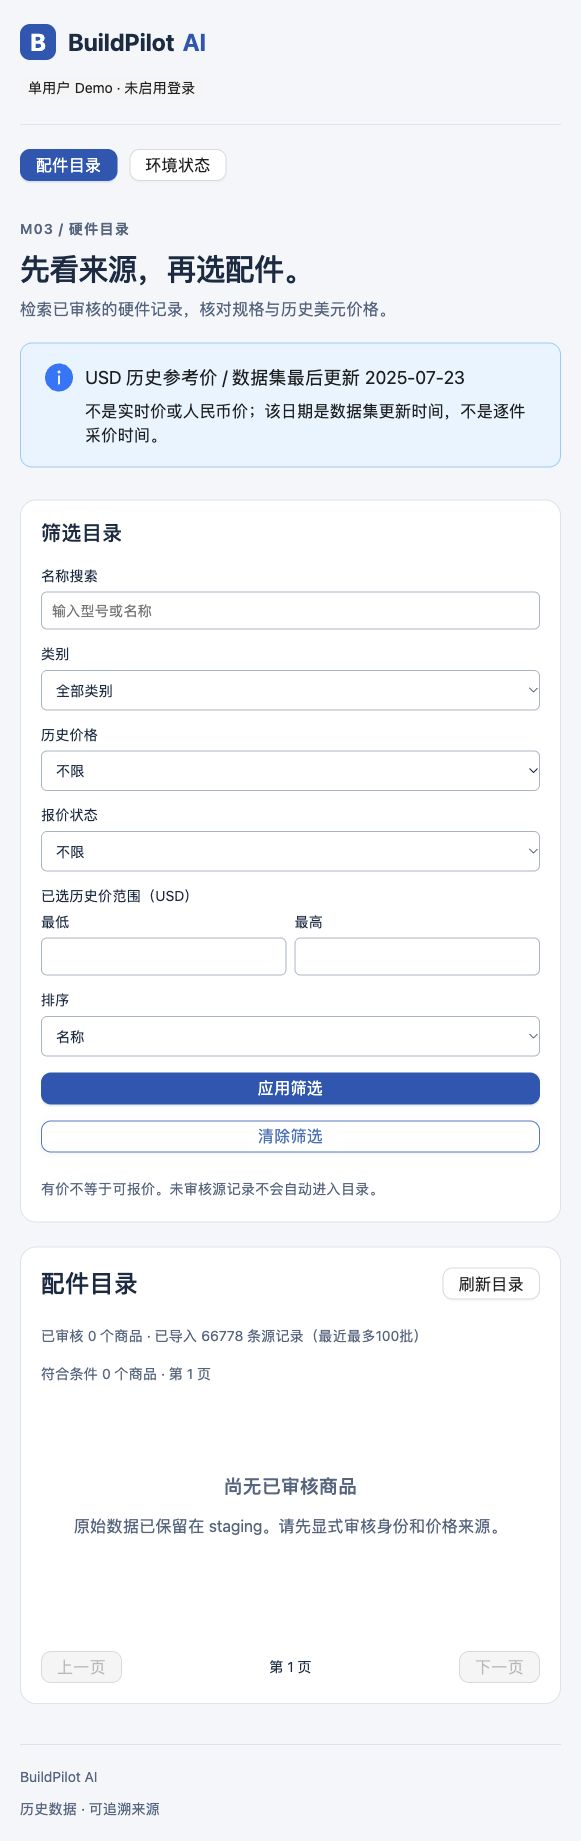
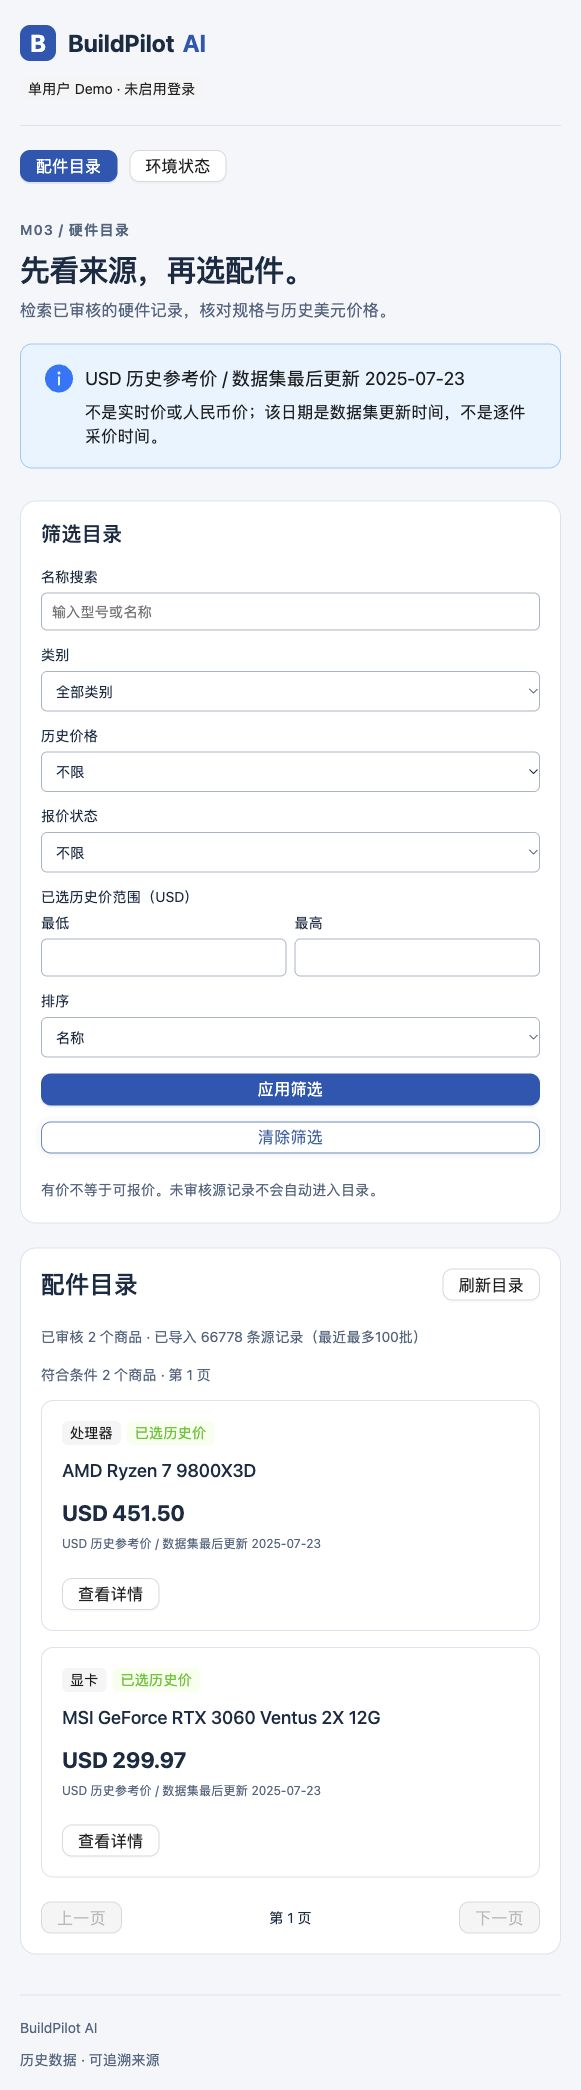
docs(m03): record approved real catalog acceptance

diff --git a/BUILD_PILOT_AI_MASTER_PLAN.md b/BUILD_PILOT_AI_MASTER_PLAN.md
@@ -1,6 +1,6 @@
 # BuildPilot AI — 完整项目实施手册（M03 修订版）
 
-2026-10-14：M00–M02 已验收；M03 代码已实现，真实样例验收待审核；后续为设计稿。
+2026-10-14：M00–M03 已验收；后续为设计稿。
 
 
 ---
@@ -11,7 +11,7 @@
 
 > 实施前必须同时阅读 [docs/11_PLAN_REVISION.md](docs/11_PLAN_REVISION.md)。该文件定义本次修订的业务规则、验收与执行顺序；冲突处以修订条款为准。M00–M02 已实现；验收结果见 docs/verification/。
 
-> **当前已实现 M00 工程基座、M01 文件清洗和 M02 数据库迁移/入库。** M03 配件 API/查询界面已实现，真实样例目录审核待确认；装机功能尚未实现。按修订后的阶段顺序逐关验收。
+> **当前已实现 M00 工程基座、M01 文件清洗和 M02 数据库迁移/入库。** M03 配件 API/查询界面已实现，真实 CPU/GPU 样例已批准并通过验收；装机功能尚未实现。按修订后的阶段顺序逐关验收。
 
 ## 本地运行（M00）
 
@@ -140,7 +140,7 @@ UV_CACHE_DIR=/tmp/buildpilot-uv-cache uv run --locked python -m app.etl.import_d
 
 同名不同规格不能合到同一个 UUID；新数据版本不按名字自动延续身份。只对同一输入中的相同源记录键复用此前的审核映射；跨输入版本需新的显式映射。当前仅本地 CLI 操作，不宣称已实现登录管理员权限或签名审核。
 
-实际数据目前 **0 个已审核规范商品**，全部先入 staging；这不是导入失败。M03 展示规范目录前需要审核少量可靠样例。合成 fixtures 已验证缺价商品存在但不可报价、冲突价经显式选择后可溯源，以及旧报价金额不被后续选价修改。
+M02 初次导入时规范目录为0；M03 经用户明确批准后，当前有 **2 个已审核规范商品**（CPU/GPU各1个），其余保留 staging。合成 fixtures 已验证缺价商品存在但不可报价、冲突价经显式选择后可溯源，以及旧报价金额不被后续选价修改。
 
 [数据库 ER 与实现说明](docs/03_DATABASE.md) · [M02 验收记录](docs/verification/M02.md) · [M02 学习笔记](docs/learning-notes/M02.md)
 
@@ -158,9 +158,9 @@ make check-db
 
 接口前缀 /api/v1；交互式契约见 http://127.0.0.1:8000/docs。价格 JSON 为字符串或 null。所有历史金额旁显示 USD 及数据集最后更新日期，缺价不填零。有价与可报价分别筛选；价格范围只使用显式选价。
 
-**真实目录当前仍为空**：源记录已入 staging，两条 CPU/GPU 演示样例尚待审核。应用不会自动合并或伪造审核。空目录会解释原因；确认本地审核文件后用 M02 CLI 应用即可显示，无需改代码。原始数据、审核文件和清洗输出不提交 GitHub。
+**真实目录当前有2个已审核演示商品**：用户已批准 AMD Ryzen 7 9800X3D（USD 451.50）和 MSI GeForce RTX 3060 Ventus 2X 12G（USD 299.97）的独立身份及源价，已应用并验证重跑幂等。其余源记录仍待审；新环境未应用本地审核文件时会显示空目录及原因。原始数据、审核文件和清洗输出不提交 GitHub。
 
-已实现接口/UI 与测试通过，M03 全部验收仍待真实样例批准和浏览器详情核对。没有实现登录、装机 CRUD 或 AI。
+接口/UI、自动测试和真实 CPU/GPU 搜索/详情验收通过。没有实现登录、装机 CRUD 或 AI。
 
 [M03 验收与限制](docs/verification/M03.md) · [M03 学习笔记](docs/learning-notes/M03.md) · [当前 API 契约](docs/04_API.md)
 
@@ -221,7 +221,7 @@ make check-db
 
 # Codex 工作规范（必须遵守）
 
-> 实施前必须同时阅读 [docs/11_PLAN_REVISION.md](docs/11_PLAN_REVISION.md)。该文件定义本次修订的业务规则、验收与执行顺序；冲突处以修订条款为准。M00–M02 已验收；M03 接口/UI 已实现，真实样例验收待审核，记录见 docs/verification/。后续阶段仅在用户指定后实施。
+> 实施前必须同时阅读 [docs/11_PLAN_REVISION.md](docs/11_PLAN_REVISION.md)。该文件定义本次修订的业务规则、验收与执行顺序；冲突处以修订条款为准。M00–M02 已验收；M03 已通过真实样例验收，记录见 docs/verification/。后续阶段仅在用户指定后实施。
 
 ## 1. 工作模式
 - 每次只实施用户指定的 `Mxx` 阶段。不得主动跨越未完成里程碑，也不得一次“生成整个项目”。
@@ -727,7 +727,7 @@ M01 JSON 内的 import_batch_id 是文件处理指纹；数据库批次使用由
 - 无此规范商品/不活跃商品为404；非法 UUID/参数为422；数据库不可用为503。error 对象为 code/message/request_id/details，并返回 X-Request-ID；验证错误不回显原始输入/SQL/凭据。
 - `/health`、`/ready` 沿用 M00 返回结构。
 
-当前真实数据：66,778条源记录已入库，规范目录暂为0；两条 CPU/GPU 样例等待本地操作者明确审核，详见 M03 验收记录。合成测试使用独立 PostgreSQL schema，不混入本地业务目录。
+当前真实数据：66,778条源记录已入库，规范目录为2；两条 CPU/GPU 样例已获用户明确批准并应用，详见 M03 验收记录。合成测试使用独立 PostgreSQL schema，不混入本地业务目录。
 
 ## 3. 认证与会话（M05）
 | 方法 | 路径 | 描述 |
@@ -1061,7 +1061,7 @@ LangGraph `interrupt` 在恢复时会**从被中断节点开头重新执行**；
 
 **验收门槛**：从真实导入数据库查询 CPU/GPU；任何页面不显示人民币假价格；无法查询的 SKU 处理有解释。
 
-实际进度：接口与界面已实现，自动测试通过；真实数据库空目录已浏览器验证。CPU/GPU 样例审批尚未完成，因此**M03 完整验收待定**，不自动进入 M04。见 [M03 记录](verification/M03.md)。
+实际进度：接口与界面、自动测试及真实 CPU/GPU 查询/详情验收通过。两条演示身份及源价已获用户批准并入库，重复应用幂等；不自动进入 M04。见 [M03 记录](verification/M03.md)。
 
 ## M04｜手动装机系统（首个完整业务闭环）
 **依赖**：M03。**学习**：关系模型、CRUD、事务、Decimal 合计、乐观锁、前端表单与状态管理。
@@ -1526,7 +1526,7 @@ cd frontend && npm run typecheck && npm run test
 
 # 11｜实施计划修订与业务契约
 
-修订日期：2026-10-13。状态：设计已修订；M00–M02 已实现；M03 目录 API/UI 已实现，真实样例验收待审核；M04 及后续尚未实施。
+修订日期：2026-10-13。状态：设计已修订；M00–M02 已实现；M03 目录 API/UI 已通过真实样例验收；M04 及后续尚未实施。
 
 本文件补充并修订原交接计划。与其他文档冲突时，以本文件对应条款为准；实施各阶段时同步更新具体接口、迁移和测试。原始数据及历史 USD 口径不变。
 
@@ -1600,7 +1600,7 @@ cd frontend && npm run typecheck && npm run test
 - 建议执行顺序：M00 → M01 → M02 → M03 → M04 → M05 → M08 → M06 → M07 → M10 → M09 → M11 → M12。
 - M08 提前时只交付规则、规格补充和手动工作台；Agent 工具接入在 M06/M07 完成后、M10 前实施。M10 不依赖 RAG；M11 依赖 M09 和 M10。
 - 编号保持不变。因执行顺序调整，V0.2 发布门槛包含 M05–M08，V0.3 包含 M09–M10；V0.1 和 V1.0 不变。
-- 每次只实施用户指定阶段。M00–M02 已实现，当前进度见 verification/ 下的里程碑记录；M03 接口/UI 已实现但真实样例验收待审核；M04–M12 尚未实施。
+- 每次只实施用户指定阶段。M00–M02 已实现，当前进度见 verification/ 下的里程碑记录；M03 已通过真实样例验收；M04–M12 尚未实施。
 
 ## 9. 修订对应关系
 

diff --git a/docs/verification/M03.md b/docs/verification/M03.md
@@ -1,6 +1,6 @@
 # M03｜目录接口与查询前端
 
-日期：2026-10-14。结论：代码与自动测试通过，真实空目录链路通过；**完整 M03 验收尚待真实样例审核及详情验证**。没有进入 M04。
+日期：2026-10-14。结论：代码、自动测试及真实 CPU/GPU 搜索/详情验收通过。没有进入 M04。
 
 ## 变更与架构
 
@@ -19,22 +19,28 @@
 - React 检查：直接组件导入；页面/元信息并行请求；不在 effect 同步修改派生加载状态；请求取消和 active 标记防过期覆盖；表单有标签和键盘焦点；没有新增 UI 框架。
 - 合成源仅在隔离 schema 中测试，不能冒充真实商品验收。
 
-## 当前浏览器链路证据
+## 当前真实数据与浏览器链路证据
 
-1. 当前开发服务 5173/8000 正常；默认目录页面加载。
-2. 分类、数据源及商品列表均请求真实 API，数据库返回已导入66,778条源记录、已审核0个商品。
-3. 页面显示“尚无已审核商品”及 staging 原因；名称搜索提交/清除有效，分页禁用。
-4. 浏览器控制台本次检查无 error/warn。
-5. 截图 `M03-catalog.jpg` 为真实空目录；没有人工伪造页面商品。
+用户明确批准两条独立演示身份及对应历史源价后，本地 data/reviews/m03-approved.json 写入身份映射和选价记录；文件被 Git 忽略，不公开操作者信息。
 
-## 待完成
+- CPU：AMD Ryzen 7 9800X3D，USD 451.50，csv/cpu.csv 原文件第2行，商品 ID 99da2f27-3d22-54f2-baf9-9ad71357c7aa。
+- GPU：MSI GeForce RTX 3060 Ventus 2X 12G，USD 299.97，csv/video-card.csv 原文件第2行，商品 ID 31a0379f-f09a-52d3-8700-8f3da5e36a2a。
+- 来源 docyx/pc-part-dataset，数据集最后更新2025-07-23；没有合并其他候选，不代表兼容性或当前市价。
+- 审核文件 dry-run 通过，apply 成功；相同文件重跑为 already_imported。原始记录66,778、报价记录66,774、质量提示136,006不变；规范商品和来源映射各为2条。
 
-本地操作者尚未批准两条独立历史演示候选：CPU csv/cpu.csv 第2行、GPU csv/video-card.csv 第2行。批准后才可生成正式身份映射/选价审核文件、应用导入，并浏览器核对 CPU/GPU 搜索、详情与原始来源。CPU socket 和频率单位仍未知，不宣称兼容。
+浏览器实际请求5173代理 → 8000 API → PostgreSQL：
 
-确认要求来自 docs/11_PLAN_REVISION.md 第3节保守身份策略及 README 显式审核约定。公开代码库不包含原始商品数据和审核者文件。
+1. 列表显示已审核2个商品及对应已选历史USD金额；分类各计1个。
+2. GPU类别 + RTX 3060名称组合筛选仅返回批准GPU，详情显示12GB、235mm与 csv/video-card.csv 第2行原始字段。
+3. CPU详情显示8核心、原始字段与 csv/cpu.csv 第2行；socket及频率单位保持未知，质量提示可见。
+4. 两者历史记录均显示对应当前选价和数据集日期，不把日期称为逐件采价时间。
+5. 清除筛选恢复两条商品；浏览器控制台本次检查无 error/warn。
+6. M03-catalog.jpg 为真实目录截图；M03-cpu-detail.jpg 为CPU详情截图。合成 fixtures 未进入业务 schema。
+
+PR #3 初次完整 CI 通过：https://github.com/MaTouNB/BuildPilotAI/actions/runs/38519012382 。本次补验收仅修改本地审核数据、文档和截图，没有修改应用代码。
 
 ## 手工验收
 
-`make db-up && make db-migrate && make dev`，打开5173：先核对单用户标识和历史USD日期；尝试名称/类别/有价/报价状态筛选，查看详情与源行；断开数据库验证503和前端重试（测试后恢复）。真实源审核前应是空目录，不应显示合成 fixtures。
+`make db-up && make db-migrate && make dev`，打开5173：先核对单用户标识和历史USD日期；尝试名称/类别/有价/报价状态筛选，查看详情与源行；断开数据库验证503和前端重试（测试后恢复）。新环境若未应用本地真实审核文件，应是空目录；不应混入合成 fixtures。
 
 限制：没有登录、兼容规则、装机写操作、AI；详情证据最多100条，历史价格独立分页；价格范围只筛选已选价；刷新不持久化筛选状态。M03 不对数据集商用授权或当下市场价格作保证。

diff --git a/README.md b/README.md
@@ -2,7 +2,7 @@
 
 > 实施前必须同时阅读 [docs/11_PLAN_REVISION.md](docs/11_PLAN_REVISION.md)。该文件定义本次修订的业务规则、验收与执行顺序；冲突处以修订条款为准。M00–M02 已实现；验收结果见 docs/verification/。
 
-> **当前已实现 M00 工程基座、M01 文件清洗和 M02 数据库迁移/入库。** M03 配件 API/查询界面已实现，真实样例目录审核待确认；装机功能尚未实现。按修订后的阶段顺序逐关验收。
+> **当前已实现 M00 工程基座、M01 文件清洗和 M02 数据库迁移/入库。** M03 配件 API/查询界面已实现，真实 CPU/GPU 样例已批准并通过验收；装机功能尚未实现。按修订后的阶段顺序逐关验收。
 
 ## 本地运行（M00）
 
@@ -131,7 +131,7 @@ UV_CACHE_DIR=/tmp/buildpilot-uv-cache uv run --locked python -m app.etl.import_d
 
 同名不同规格不能合到同一个 UUID；新数据版本不按名字自动延续身份。只对同一输入中的相同源记录键复用此前的审核映射；跨输入版本需新的显式映射。当前仅本地 CLI 操作，不宣称已实现登录管理员权限或签名审核。
 
-实际数据目前 **0 个已审核规范商品**，全部先入 staging；这不是导入失败。M03 展示规范目录前需要审核少量可靠样例。合成 fixtures 已验证缺价商品存在但不可报价、冲突价经显式选择后可溯源，以及旧报价金额不被后续选价修改。
+M02 初次导入时规范目录为0；M03 经用户明确批准后，当前有 **2 个已审核规范商品**（CPU/GPU各1个），其余保留 staging。合成 fixtures 已验证缺价商品存在但不可报价、冲突价经显式选择后可溯源，以及旧报价金额不被后续选价修改。
 
 [数据库 ER 与实现说明](docs/03_DATABASE.md) · [M02 验收记录](docs/verification/M02.md) · [M02 学习笔记](docs/learning-notes/M02.md)
 
@@ -149,9 +149,9 @@ make check-db
 
 接口前缀 /api/v1；交互式契约见 http://127.0.0.1:8000/docs。价格 JSON 为字符串或 null。所有历史金额旁显示 USD 及数据集最后更新日期，缺价不填零。有价与可报价分别筛选；价格范围只使用显式选价。
 
-**真实目录当前仍为空**：源记录已入 staging，两条 CPU/GPU 演示样例尚待审核。应用不会自动合并或伪造审核。空目录会解释原因；确认本地审核文件后用 M02 CLI 应用即可显示，无需改代码。原始数据、审核文件和清洗输出不提交 GitHub。
+**真实目录当前有2个已审核演示商品**：用户已批准 AMD Ryzen 7 9800X3D（USD 451.50）和 MSI GeForce RTX 3060 Ventus 2X 12G（USD 299.97）的独立身份及源价，已应用并验证重跑幂等。其余源记录仍待审；新环境未应用本地审核文件时会显示空目录及原因。原始数据、审核文件和清洗输出不提交 GitHub。
 
-已实现接口/UI 与测试通过，M03 全部验收仍待真实样例批准和浏览器详情核对。没有实现登录、装机 CRUD 或 AI。
+接口/UI、自动测试和真实 CPU/GPU 搜索/详情验收通过。没有实现登录、装机 CRUD 或 AI。
 
 [M03 验收与限制](docs/verification/M03.md) · [M03 学习笔记](docs/learning-notes/M03.md) · [当前 API 契约](docs/04_API.md)
 

diff --git a/docs/11_PLAN_REVISION.md b/docs/11_PLAN_REVISION.md
@@ -1,6 +1,6 @@
 # 11｜实施计划修订与业务契约
 
-修订日期：2026-10-13。状态：设计已修订；M00–M02 已实现；M03 目录 API/UI 已实现，真实样例验收待审核；M04 及后续尚未实施。
+修订日期：2026-10-13。状态：设计已修订；M00–M02 已实现；M03 目录 API/UI 已通过真实样例验收；M04 及后续尚未实施。
 
 本文件补充并修订原交接计划。与其他文档冲突时，以本文件对应条款为准；实施各阶段时同步更新具体接口、迁移和测试。原始数据及历史 USD 口径不变。
 
@@ -74,7 +74,7 @@
 - 建议执行顺序：M00 → M01 → M02 → M03 → M04 → M05 → M08 → M06 → M07 → M10 → M09 → M11 → M12。
 - M08 提前时只交付规则、规格补充和手动工作台；Agent 工具接入在 M06/M07 完成后、M10 前实施。M10 不依赖 RAG；M11 依赖 M09 和 M10。
 - 编号保持不变。因执行顺序调整，V0.2 发布门槛包含 M05–M08，V0.3 包含 M09–M10；V0.1 和 V1.0 不变。
-- 每次只实施用户指定阶段。M00–M02 已实现，当前进度见 verification/ 下的里程碑记录；M03 接口/UI 已实现但真实样例验收待审核；M04–M12 尚未实施。
+- 每次只实施用户指定阶段。M00–M02 已实现，当前进度见 verification/ 下的里程碑记录；M03 已通过真实样例验收；M04–M12 尚未实施。
 
 ## 9. 修订对应关系
 

diff --git a/AGENTS.md b/AGENTS.md
@@ -1,6 +1,6 @@
 # Codex 工作规范（必须遵守）
 
-> 实施前必须同时阅读 [docs/11_PLAN_REVISION.md](docs/11_PLAN_REVISION.md)。该文件定义本次修订的业务规则、验收与执行顺序；冲突处以修订条款为准。M00–M02 已验收；M03 接口/UI 已实现，真实样例验收待审核，记录见 docs/verification/。后续阶段仅在用户指定后实施。
+> 实施前必须同时阅读 [docs/11_PLAN_REVISION.md](docs/11_PLAN_REVISION.md)。该文件定义本次修订的业务规则、验收与执行顺序；冲突处以修订条款为准。M00–M02 已验收；M03 已通过真实样例验收，记录见 docs/verification/。后续阶段仅在用户指定后实施。
 
 ## 1. 工作模式
 - 每次只实施用户指定的 `Mxx` 阶段。不得主动跨越未完成里程碑，也不得一次“生成整个项目”。

diff --git a/docs/06_ROADMAP.md b/docs/06_ROADMAP.md
@@ -75,7 +75,7 @@
 
 **验收门槛**：从真实导入数据库查询 CPU/GPU；任何页面不显示人民币假价格；无法查询的 SKU 处理有解释。
 
-实际进度：接口与界面已实现，自动测试通过；真实数据库空目录已浏览器验证。CPU/GPU 样例审批尚未完成，因此**M03 完整验收待定**，不自动进入 M04。见 [M03 记录](verification/M03.md)。
+实际进度：接口与界面、自动测试及真实 CPU/GPU 查询/详情验收通过。两条演示身份及源价已获用户批准并入库，重复应用幂等；不自动进入 M04。见 [M03 记录](verification/M03.md)。
 
 ## M04｜手动装机系统（首个完整业务闭环）
 **依赖**：M03。**学习**：关系模型、CRUD、事务、Decimal 合计、乐观锁、前端表单与状态管理。

diff --git a/docs/04_API.md b/docs/04_API.md
@@ -42,7 +42,7 @@
 - 无此规范商品/不活跃商品为404；非法 UUID/参数为422；数据库不可用为503。error 对象为 code/message/request_id/details，并返回 X-Request-ID；验证错误不回显原始输入/SQL/凭据。
 - `/health`、`/ready` 沿用 M00 返回结构。
 
-当前真实数据：66,778条源记录已入库，规范目录暂为0；两条 CPU/GPU 样例等待本地操作者明确审核，详见 M03 验收记录。合成测试使用独立 PostgreSQL schema，不混入本地业务目录。
+当前真实数据：66,778条源记录已入库，规范目录为2；两条 CPU/GPU 样例已获用户明确批准并应用，详见 M03 验收记录。合成测试使用独立 PostgreSQL schema，不混入本地业务目录。
 
 ## 3. 认证与会话（M05）
 | 方法 | 路径 | 描述 |
